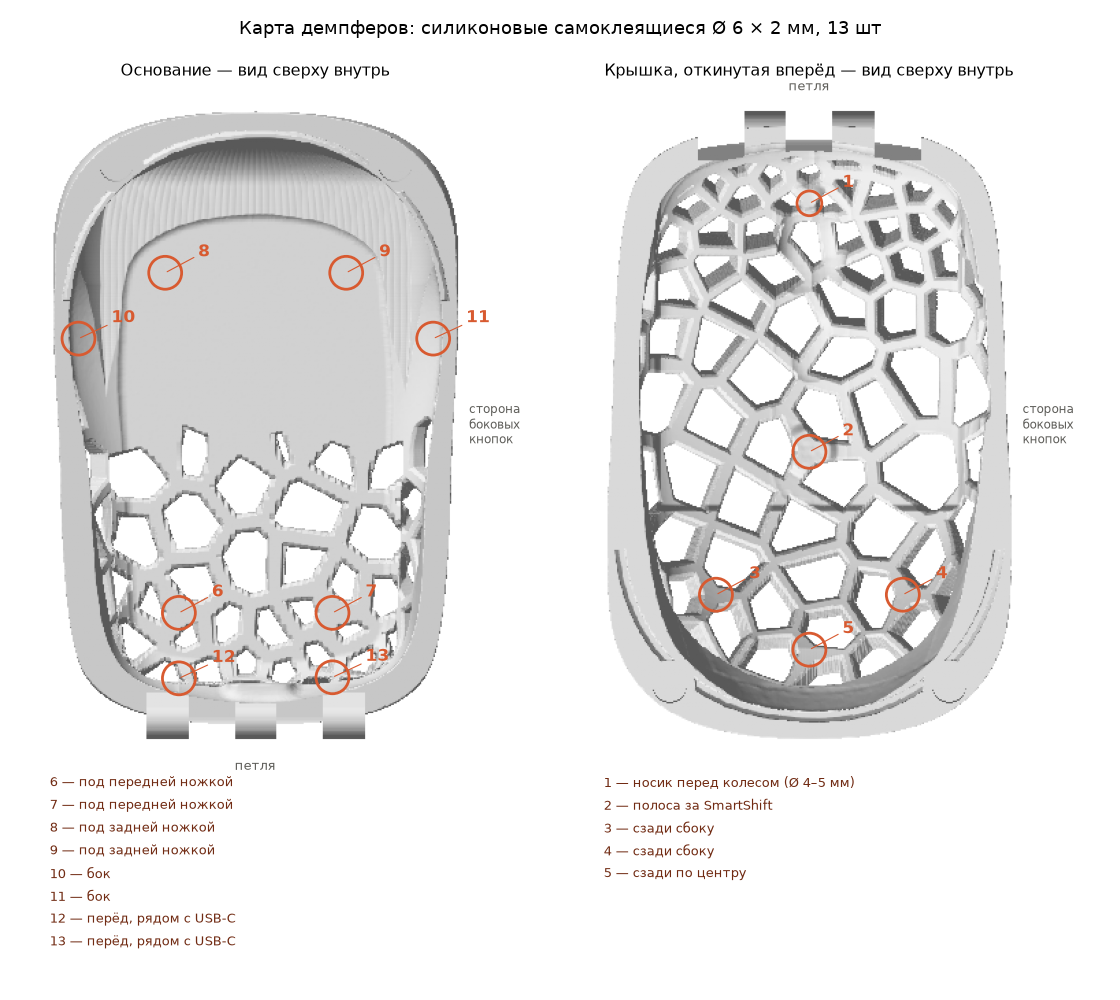
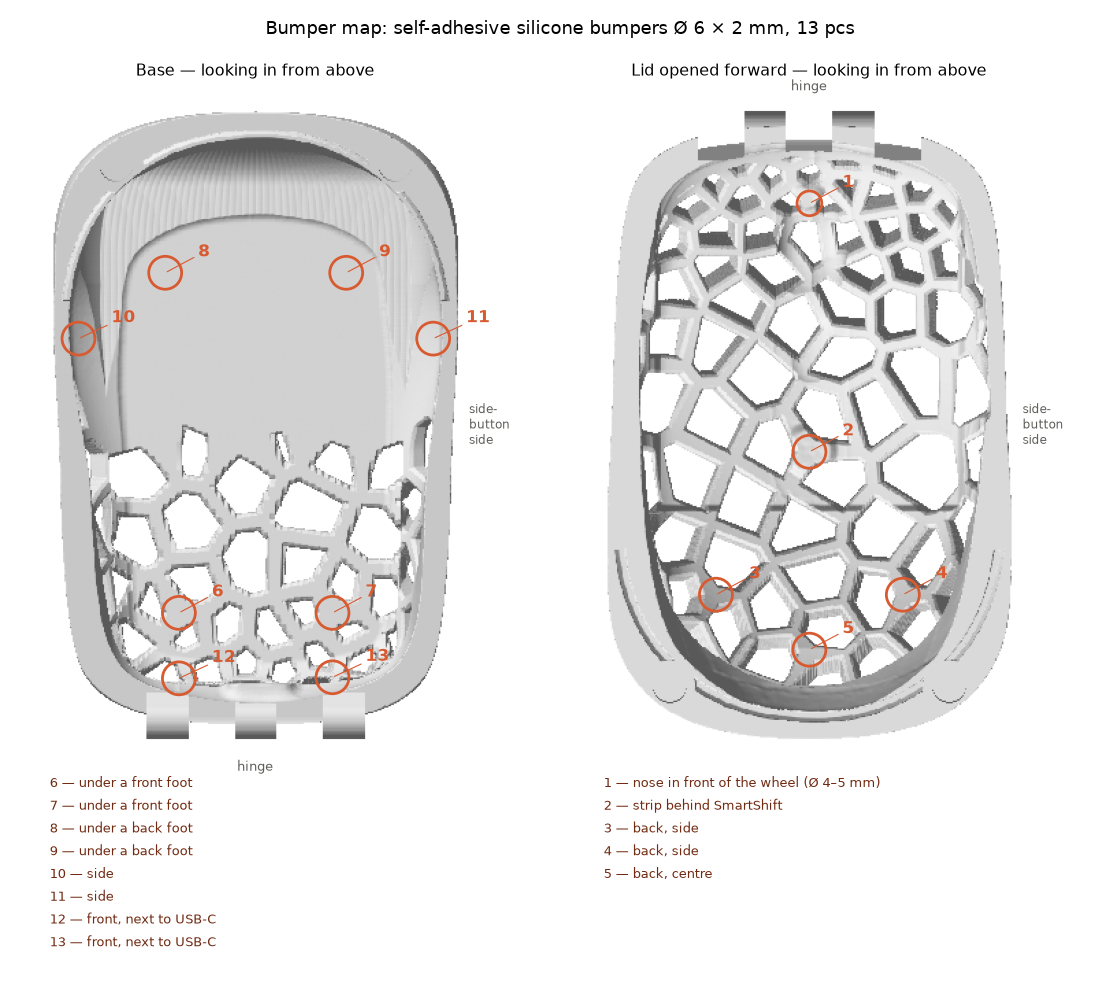
Docs in English and Russian
English stays the main language: README.md and PRINTING.md (now
translated), with README.ru.md and PRINTING.ru.md alongside and a language
switch at the top of each. The case views and the bumper map are rendered
in both languages; the order package for the print shop keeps the Russian
pictures and order text.

diff --git a/case/bumper_map.py b/case/bumper_map.py
@@ -1,7 +1,7 @@
 """Where to glue the bumpers: a shaded look into the base from above and into the
 lid from below (as you hold it opened), with every contact numbered.
 
-Run:  .venv/bin/python -m case.bumper_map [stage]
+Run:  .venv/bin/python -m case.bumper_map [stage]   (writes the English and the Russian map)
 """
 import sys
 
@@ -16,12 +16,29 @@ from . import fields as F  # noqa: E402
 from . import form  # noqa: E402
 from . import params as P  # noqa: E402
 
-LABELS = {
-    "nose": "носик перед колесом", "strip": "полоса за SmartShift", "back_l": "сзади сбоку",
-    "back_r": "сзади сбоку", "back_c": "сзади по центру", "foot_fl": "под передней ножкой",
-    "foot_fr": "под передней ножкой", "foot_bl": "под задней ножкой",
-    "foot_br": "под задней ножкой", "side_l": "бок", "side_r": "бок",
-    "front_l": "перёд, рядом с USB-C", "front_r": "перёд, рядом с USB-C",
+TEXT = {
+    "en": {
+        "labels": {
+            "nose": "nose in front of the wheel", "strip": "strip behind SmartShift", "back_l": "back, side",
+            "back_r": "back, side", "back_c": "back, centre", "foot_fl": "under a front foot",
+            "foot_fr": "under a front foot", "foot_bl": "under a back foot", "foot_br": "under a back foot",
+            "side_l": "side", "side_r": "side", "front_l": "front, next to USB-C", "front_r": "front, next to USB-C",
+        },
+        "nose_size": " (Ø 4–5 mm)", "base": "Base — looking in from above",
+        "lid": "Lid opened forward — looking in from above", "hinge": "hinge", "side": "side-\nbutton\nside",
+        "title": "Bumper map: self-adhesive silicone bumpers Ø 6 × 2 mm, 13 pcs",
+    },
+    "ru": {
+        "labels": {
+            "nose": "носик перед колесом", "strip": "полоса за SmartShift", "back_l": "сзади сбоку",
+            "back_r": "сзади сбоку", "back_c": "сзади по центру", "foot_fl": "под передней ножкой",
+            "foot_fr": "под передней ножкой", "foot_bl": "под задней ножкой", "foot_br": "под задней ножкой",
+            "side_l": "бок", "side_r": "бок", "front_l": "перёд, рядом с USB-C", "front_r": "перёд, рядом с USB-C",
+        },
+        "nose_size": " (Ø 4–5 мм)", "base": "Основание — вид сверху внутрь",
+        "lid": "Крышка, откинутая вперёд — вид сверху внутрь", "hinge": "петля", "side": "сторона\nбоковых\nкнопок",
+        "title": "Карта демпферов: силиконовые самоклеящиеся Ø 6 × 2 мм, 13 шт",
+    },
 }
 
 
@@ -40,12 +57,12 @@ def shaded(mesh, from_below, step=0.25):
     return img.reshape(X.shape), [xs[0], xs[-1], ys[0], ys[-1]]
 
 
-def draw(stage="print"):
+def draw(stage="print", lang="en", out=None):
     d = P.BUILD / stage
+    t = TEXT[lang]
     contacts = F.contact_points()
     fig, axs = plt.subplots(1, 2, figsize=(14, 12.5))
-    for ax, part, below, title in [(axs[0], "base", False, "Основание — вид сверху внутрь"),
-                                   (axs[1], "lid", True, "Крышка, откинутая вперёд — вид сверху внутрь")]:
+    for ax, part, below, title in [(axs[0], "base", False, t["base"]), (axs[1], "lid", True, t["lid"])]:
         m = trimesh.load(P.BUILD / "stage2" / f"{part}.stl") if not (d / f"{part}.stl").exists() \
             else trimesh.load(d / f"{part}.stl")
         img, ext = shaded(m, below)
@@ -62,23 +79,24 @@ def draw(stage="print"):
             ax.add_patch(plt.Circle((x, y), dia / 2, fill=False, color="#D85A30", lw=2.5))
             ax.annotate(str(i), (x, y), xytext=(x + 6, y + 3), color="#D85A30", fontsize=15,
                         fontweight="bold", arrowprops=dict(arrowstyle="-", color="#D85A30", lw=1))
-            ax.text(0.02, -0.04 - 0.035 * k, f"{i} — {LABELS[name]}" + (" (Ø 4–5 мм)" if name == "nose" else ""),
+            ax.text(0.02, -0.04 - 0.035 * k, f"{i} — {t['labels'][name]}" + (t["nose_size"] if name == "nose" else ""),
                     transform=ax.transAxes, fontsize=12, color="#712B13", va="top")
             k += 1
         hinge_y = 1.0 if below else 0.0
-        ax.text(0.5, hinge_y + (0.01 if below else -0.015), "петля", transform=ax.transAxes, ha="center",
+        ax.text(0.5, hinge_y + (0.01 if below else -0.015), t["hinge"], transform=ax.transAxes, ha="center",
                 va="bottom" if below else "top", fontsize=12, color="#5F5E5A")
-        ax.text(1.0, 0.5, "сторона\nбоковых\nкнопок", transform=ax.transAxes, ha="left", va="center",
+        ax.text(1.0, 0.5, t["side"], transform=ax.transAxes, ha="left", va="center",
                 fontsize=11, color="#5F5E5A")
         ax.set_title(title, fontsize=14, pad=22)
         ax.set_aspect("equal")
         ax.axis("off")
-    plt.suptitle("Карта демпферов: силиконовые самоклеящиеся Ø 6 × 2 мм, 13 шт", fontsize=16)
+    plt.suptitle(t["title"], fontsize=16)
     plt.subplots_adjust(left=0.03, right=0.92, top=0.9, bottom=0.25, wspace=0.25)
-    out = d / "bumper_map.png"
+    out = out or d / ("bumper_map.png" if lang == "en" else f"bumper_map.{lang}.png")
     plt.savefig(out, dpi=80)
     print(out)
 
 
 if __name__ == "__main__":
-    draw(*sys.argv[1:])
+    for lang in TEXT:
+        draw(*sys.argv[1:], lang=lang)

diff --git a/case/colors.py b/case/colors.py
@@ -106,7 +106,7 @@ if __name__ == "__main__":
     render_all()
 
 
-def scheme_views(base_color, lid_color, lid_alpha=1.0, tag="custom", stage="print", open_deg=105):
+def scheme_views(base_color, lid_color, lid_alpha=1.0, tag="custom", stage="print", open_deg=105, lang="en"):
     """Closed and open GLBs of one scheme, plus a sheet of views. A lid_alpha
     below 1 hints at translucent filament (the viewer blends, snapshots may not)."""
     OUT.mkdir(parents=True, exist_ok=True)
@@ -132,10 +132,12 @@ def scheme_views(base_color, lid_color, lid_alpha=1.0, tag="custom", stage="prin
         s.apply_transform(Z_UP_TO_Y_UP)
         out[state] = OUT / f"{tag}_{state}.glb"
         s.export(out[state])
-    shots = [("closed", "iso", "спереди"), ("closed", "150:12", "сзади"), ("closed", "top", "сверху"),
-             ("closed", "90:5", "сбоку"), ("open", "iso", "открыт"), ("open", "300:45", "открыт, сверху")]
+    shots = [("closed", "iso"), ("closed", "150:12"), ("closed", "top"),
+             ("closed", "90:5"), ("open", "iso"), ("open", "300:45")]
+    titles = {"en": ["front", "back", "top", "side", "open", "open, from above"],
+              "ru": ["спереди", "сзади", "сверху", "сбоку", "открыт", "открыт, сверху"]}[lang]
     fig, axs = plt.subplots(2, 3, figsize=(18, 10))
-    for ax, (state, cam, title) in zip(axs.ravel(), shots):
+    for ax, (state, cam), title in zip(axs.ravel(), shots, titles):
         png = OUT / f"{tag}_{state}_{cam.replace(':', '_')}.png"
         subprocess.run(["cadgen", "+0.8.4", "snapshot", str(out[state]), str(png), f"--camera={cam}"],
                        check=True, capture_output=True)
@@ -143,6 +145,6 @@ def scheme_views(base_color, lid_color, lid_alpha=1.0, tag="custom", stage="prin
         ax.set_title(title, fontsize=15)
         ax.axis("off")
     plt.tight_layout()
-    sheet = OUT / f"{tag}_views.png"
+    sheet = OUT / (f"{tag}_views.png" if lang == "en" else f"{tag}_views.{lang}.png")
     plt.savefig(sheet, dpi=55)
     return out, sheet

diff --git a/case/order.py b/case/order.py
@@ -76,8 +76,10 @@ def build(stage="print"):
                    check=True, capture_output=True)
     glb.unlink()
 
-    sheet = P.BUILD / "colors" / "D_frosted_views.png"  # made by colors.scheme_views for the chosen scheme
-    if sheet.exists():
+    # made by colors.scheme_views for the chosen scheme; the print shop reads Russian
+    sheet = next((f for f in (P.BUILD / "colors" / "D_frosted_views.ru.png", P.BUILD / "colors" / "D_frosted_views.png")
+                  if f.exists()), None)
+    if sheet:
         shutil.copy(sheet, out / "cveta.png")
 
     with zipfile.ZipFile(P.BUILD / "mx_case_order.zip", "w", zipfile.ZIP_DEFLATED) as z:

diff --git a/PRINTING.md b/PRINTING.md
@@ -1,61 +1,66 @@
-# Чехол MX Anywhere 3 — печать и сборка
+# MX Anywhere 3 case — printing and assembly
 
-## Файлы для печати
+**English** · [Русский](PRINTING.ru.md)
 
-Собираются командой `.venv/bin/python -m case.build print` в папку `build/print/`:
+## Print files
 
-| Файл | Что это |
+`.venv/bin/python -m case.build print` writes them to `build/print/`:
+
+| File | What it is |
 | --- | --- |
-| `mx_case_plate.3mf` | обе детали на одном столе, уже в положении для печати |
-| `mx_case_base.stl` | основание, в положении для печати |
-| `mx_case_lid.stl` | крышка, в положении для печати |
-| `bumper_map.png` | куда клеить демпферы |
+| `mx_case_plate.3mf` | both parts on one plate, already in print orientation |
+| `mx_case_base.stl` | the base, in print orientation |
+| `mx_case_lid.stl` | the lid, in print orientation |
 
-## Заказ
+The bumper map comes from `.venv/bin/python -m case.bumper_map`: `build/print/bumper_map.png` (Russian version: `bumper_map.ru.png`).
 
-`.venv/bin/python -m case.order` собирает `build/mx_case_order.zip` — его и отправлять:
+## Ordering a print
 
-| В архиве | Что это |
+`.venv/bin/python -m case.order` builds `build/mx_case_order.zip`, ready to send to a print shop:
+
+| In the zip | What it is |
 | --- | --- |
-| `mx_case_base_PETG_gray.stl` | основание — **PETG серый** |
-| `mx_case_lid_PETG_white-transparent.stl` | крышка — **PETG белый прозрачный** |
-| `zakaz.txt` | текст заказа: цвета, положение на столе, поддержки, настройки |
-| `na_stole.png`, `cveta.png` | как детали лежат на столе и как выглядит готовый чехол |
+| `mx_case_base_PETG_gray.stl` | the base — **grey PETG** |
+| `mx_case_lid_PETG_white-transparent.stl` | the lid — **translucent white PETG** |
+| `zakaz.txt` | the order text: colours, orientation on the bed, supports, settings (in Russian) |
+| `na_stole.png`, `cveta.png` | the parts as they lie on the bed, and the finished case |
 
-Цвета заданы в `case/params.py` (`PRINT_COLORS`). STL не хранит цвет, поэтому он в названии файла и в тексте заказа. Детали разных цветов печатаются отдельными заданиями.
+The colours are set in `case/params.py` (`PRINT_COLORS`). An STL has no colour, so it goes into the file name and the order text. Parts in different colours are printed as separate jobs.
 
-## Для 3D Pixel
+## Print settings
 
-- **Материал:** PETG.
-- **Принтер:** многоцветный 256 × 256 × 256 (Bambu); обе детали помещаются и на 220 × 220.
-- **Сопло / слой:** 0.4 мм / 0.2 мм.
-- **Стенки:** 3 периметра, заполнение 100 % — детали тонкие, это фактически сплошной пластик.
-- **Основание:** лежит дном на столе. Поддержки **не нужны**.
-- **Крышка:** лежит плоским краем (плоскостью разъёма) на столе, куполом вверх. Нужны **древовидные поддержки только от стола** (support on build plate only) — они растут внутри купола и держат рёбра сетки снизу. Снаружи крышки поддержек быть не должно.
-- **Отверстия петли** имеют каплевидный верх и печатаются без поддержек.
-- Ориентацию не менять: в файлах она уже правильная.
+- **Material:** PETG.
+- **Printer:** anything with a 220 × 220 mm bed or larger; both parts fit on one plate.
+- **Nozzle / layer:** 0.4 mm / 0.2 mm.
+- **Walls:** 3 perimeters, 100 % infill — the parts are thin, so they are practically solid anyway.
+- **Base:** flat bottom on the bed. **No supports.**
+- **Lid:** flat rim (the parting plane) on the bed, dome up. **Tree supports from the build plate only** — they grow inside the dome and hold the lattice ribs from below. There must be no supports on the outside of the lid.
+- **Hinge holes** have a teardrop top and print without supports.
+- Do not change the orientation: the files already have the right one.
 
-## Что купить
+## What to buy
 
-| Что | Сколько |
+| What | How many |
 | --- | --- |
-| Магниты неодимовые, диск 6 × 2 мм | 4 шт |
-| Пруток / винт Ø 3 мм, длина 40 мм (винт M3 × 40, стальной пруток или спица) | 1 шт |
-| Демпферы силиконовые самоклеящиеся Ø 6 × 2 мм | 12 шт |
-| Демпфер Ø 4–5 × 2 мм (или кусочек того же) на носик перед колесом | 1 шт |
-| Клей: цианоакрилат («супер-клей») или эпоксидка | для магнитов |
+| Neodymium disc magnets 6 × 2 mm | 4 |
+| Rod or screw Ø 3 mm, 40 mm long (M3 × 40 screw, steel rod or knitting needle) | 1 |
+| Self-adhesive silicone bumpers Ø 6 × 2 mm | 12 |
+| Bumper Ø 4–5 × 2 mm (or a piece of one) for the nose in front of the wheel | 1 |
+| Glue: cyanoacrylate (super glue) or epoxy | for the magnets |
 
-## Сборка
+## Assembly
 
-1. **Магниты.** В задних углах крышки и основания по гнезду Ø 6.2 мм. Сложите все 4 магнита в один столбик и пометьте маркером верхнюю сторону каждого. В основание вклейте их **помеченной стороной наружу** (к линии разъёма), в крышку — **помеченной стороной внутрь гнезда** (ко дну). Проверьте, что крышка притягивается, пока клей не схватился.
-2. **Петля.** Совместите проушины крышки и основания и вставьте пруток: в проушинах основания он сидит плотно (Ø 3.0), в проушинах крышки вращается свободно (Ø 3.25). Если сел слишком туго — пройдите отверстия крышки сверлом 3.2–3.3 мм.
-3. **Демпферы** — по карте `bumper_map.png`: 8 шт в основании, 5 шт в крышке. Каждый клеится на утолщённый узел сетки или на сплошную стенку точно под своим номером. Мышь касается чехла только через них; остальная поверхность — в 1.7 мм от мыши.
+1. **Magnets.** There is a Ø 6.2 mm pocket in each back corner of the lid and of the base. Stack all 4 magnets in one column and mark the top face of each. Glue them into the base **marked face out** (towards the parting line) and into the lid **marked face into the pocket** (towards its bottom). Check that the lid pulls shut before the glue sets.
+2. **Hinge.** Line up the knuckles of the lid and the base and push the rod through: it is a press fit in the base knuckles (Ø 3.0) and turns freely in the lid knuckles (Ø 3.25). If it is too tight, run a 3.2–3.3 mm drill through the lid holes.
+3. **Bumpers** — following the map below: 8 in the base, 5 in the lid. Each one goes on a thickened lattice node or on solid wall, right at its number. The mouse touches the case only through them; everything else is 1.7 mm away from the mouse.
 
-## Параметры, если что-то не подошло
+![Bumper map](docs/bumper_map.png)
 
-Всё в `case/params.py` и `case/lattice.py`, пересборка одной командой:
+## If something does not fit
 
-- другой пруток — `PIN_HOLE_LID`, `PIN_HOLE_BASE`;
-- другие демпферы (высота) — `GAP`, `GAP_PAD` (зазор = высота демпфера − 0.3 мм);
-- тугой или свободный бортик — `LIP_CLEAR`;
-- другие магниты — `MAG_D`, `MAG_DEPTH`.
+Everything is in `case/params.py` and `case/lattice.py`, rebuilt with one command:
+
+- a different rod — `PIN_HOLE_LID`, `PIN_HOLE_BASE`;
+- different bumpers (height) — `GAP`, `GAP_PAD` (gap = bumper height − 0.3 mm);
+- a lip that is too tight or too loose — `LIP_CLEAR`;
+- different magnets — `MAG_D`, `MAG_DEPTH`.

diff --git a/README.ru.md b/README.ru.md
@@ -1,0 +1,67 @@
+# Чехол MX Anywhere 3
+
+[English](README.md) · **Русский**
+
+Жёсткий чехол для мыши Logitech MX Anywhere 3, напечатанный на 3D-принтере. Его единственная задача: когда мышь брошена в рюкзак, ничто не нажимает её кнопки.
+
+![Чехол закрытый и открытый: крышка из белого прозрачного PETG, основание серое](docs/case_views.ru.png)
+
+- **Крышка и основание** печатаются отдельно. Спереди их соединяет печатная петля из 5 проушин на прутке 3 мм, сзади держат две пары магнитов 6 × 2 мм, а бортик вокруг задника не даёт половинкам сдвигаться.
+- **Сетка Вороного** прорезана сквозь стенку рёбрами-клиньями: снаружи ребро восьмигранное, к мыши сужается. Сплошная «пятка» сзади и снизу переходит в крупные ячейки, мелкими ячейки становятся только у петли.
+- **Мышь касается чехла всего в 13 точках** — через самоклеящиеся силиконовые демпферы высотой 2 мм, на утолщённых узлах сетки или на сплошной стенке. Всё остальное в 1.7 мм от мыши, над колесом, SmartShift и обеими основными клавишами — не меньше 3 мм, над боковыми кнопками — 2.5 мм.
+- **Около 72 г PETG**, габарит 75 × 115 × 44 мм.
+
+## Как это устроено
+
+Всё описано кодом в папке `case/`. Органичные части — поля расстояний (SDF) на сетке 0.2–0.3 мм, механические — точные сетки.
+
+1. **Внешняя форма** (`form.py`): три кривые Безье — контур сверху, профиль сбоку и нормированное сечение — сведены в одно гладкое тело.
+2. **Полость** (`fields.py`): скан мыши, раздутый на зазор, который зависит от зоны (кнопки, точки контакта, всё остальное), и протянутый по обоим движениям при открывании: подъём мыши из основания и поворот крышки вокруг оси петли. Поэтому при открывании ничего не цепляется.
+3. **Плоскость разъёма и бортик**: плоскость с наклоном около 6° через самые широкие места носа и задника мыши.
+4. **Сетка** (`lattice.py`): точки Вороного на внешней поверхности. Их плотность задаёт композиция (пятка, пояс вдоль линии разъёма, петля, магниты), а вокруг каждой точки контакта ставятся три точки, чтобы узел сетки пришёлся ровно над ней. Каждый воксель стенки проецируется на внешнюю поверхность; расстояние до ближайшего ребра Вороного в сравнении с профилем ребра по глубине решает, ребро здесь или отверстие.
+5. **Сетки** (`build.py`, `hinge.py`): marching cubes, затем булевы операции [manifold3d](https://github.com/elalish/manifold) для проушин, каплевидных отверстий под ось и гнёзд магнитов.
+6. **Проверки**: нет пересечений с мышью и между крышкой и основанием, крышка свободно открывается до 120°, толщина стенок, нависания.
+
+## Использование
+
+Нужны Python 3.11+ и [uv](https://github.com/astral-sh/uv):
+
+```bash
+uv venv .venv
+uv pip install --python .venv/bin/python -r requirements.txt
+```
+
+Скан мыши в репозиторий **не входит** (см. ниже). Положите герметичный STL MX Anywhere 3 в корень репозитория под именем `Logitech MX Anywhere 3.stl`, в такой системе координат: миллиметры, перёд (USB-C, колесо) — в сторону −Y, боковые кнопки — в сторону +X, ножки стоят на z = −0.57. Точки контакта в `case/params.py` расставлены именно для неё.
+
+```bash
+.venv/bin/python -m case.build stage1   # сплошная оболочка, без сетки
+.venv/bin/python -m case.build stage2   # с сеткой, шаг 0.3 мм
+.venv/bin/python -m case.build print    # для печати: шаг 0.2 мм, детали в печатном положении
+.venv/bin/python -m case.checks         # тонкие стенки и нависания в файлах для печати
+.venv/bin/python -m case.bumper_map     # куда клеить демпферы
+.venv/bin/python -m case.order          # архив для салона печати с выбранными цветами
+```
+
+Первый запуск занимает несколько минут (поля расстояний кешируются в `build/cache`), следующие — около минуты. Для картинок (`case.colors`, `case.order`) нужна утилита `cadgen` из [text-to-cad](https://github.com/earthtojake/text-to-cad); сама сборка без неё обходится.
+
+Все размеры (зазоры, петля, магниты, бортик, профиль ребра, размер ячеек) — в `case/params.py` и `case/lattice.py`. Утверждённый рисунок сетки зафиксирован в `case/approved_seeds.npy`; удалите файл, чтобы получить новый.
+
+## Печать
+
+![Обе детали так, как они лежат на столе](docs/print_plate.png)
+
+- **Основание**: дном на столе, без поддержек.
+- **Крышка**: краем на столе, куполом вверх; древовидные поддержки только от стола (растут внутри купола).
+- PETG, сопло 0.4 мм, слой 0.2 мм, 3 периметра, заполнение 100 %.
+
+Понадобятся: 4 магнита 6 × 2 мм, пруток 3 мм длиной 40 мм (подойдёт винт M3 × 40), 13 силиконовых демпферов 6 × 2 мм. Настройки печати, сборка и архив заказа для салона — в [PRINTING.ru.md](PRINTING.ru.md).
+
+![Куда клеить демпферы](docs/bumper_map.ru.png)
+
+## Скан мыши
+
+Чехол подогнан под 3D-скан мыши, найденный в публичном репозитории. Его лицензия неясна, поэтому здесь он не распространяется. Подойдёт любой точный скан MX Anywhere 3 в описанной выше системе координат.
+
+## Лицензия
+
+[CC BY-NC 4.0](LICENSE): печатать, пользоваться, делиться и переделывать можно для личных некоммерческих целей с указанием автора. Продавать чехол, файлы или отпечатки без разрешения нельзя.

diff --git a/PRINTING.ru.md b/PRINTING.ru.md
@@ -1,0 +1,66 @@
+# Чехол MX Anywhere 3 — печать и сборка
+
+[English](PRINTING.md) · **Русский**
+
+## Файлы для печати
+
+Собираются командой `.venv/bin/python -m case.build print` в папку `build/print/`:
+
+| Файл | Что это |
+| --- | --- |
+| `mx_case_plate.3mf` | обе детали на одном столе, уже в положении для печати |
+| `mx_case_base.stl` | основание, в положении для печати |
+| `mx_case_lid.stl` | крышка, в положении для печати |
+
+Карта демпферов — `.venv/bin/python -m case.bumper_map`, файл `build/print/bumper_map.ru.png` (английская версия — `bumper_map.png`).
+
+## Заказ
+
+`.venv/bin/python -m case.order` собирает `build/mx_case_order.zip` — его и отправлять:
+
+| В архиве | Что это |
+| --- | --- |
+| `mx_case_base_PETG_gray.stl` | основание — **PETG серый** |
+| `mx_case_lid_PETG_white-transparent.stl` | крышка — **PETG белый прозрачный** |
+| `zakaz.txt` | текст заказа: цвета, положение на столе, поддержки, настройки |
+| `na_stole.png`, `cveta.png` | как детали лежат на столе и как выглядит готовый чехол |
+
+Цвета заданы в `case/params.py` (`PRINT_COLORS`). STL не хранит цвет, поэтому он в названии файла и в тексте заказа. Детали разных цветов печатаются отдельными заданиями.
+
+## Для 3D Pixel
+
+- **Материал:** PETG.
+- **Принтер:** многоцветный 256 × 256 × 256 (Bambu); обе детали помещаются и на 220 × 220.
+- **Сопло / слой:** 0.4 мм / 0.2 мм.
+- **Стенки:** 3 периметра, заполнение 100 % — детали тонкие, это фактически сплошной пластик.
+- **Основание:** лежит дном на столе. Поддержки **не нужны**.
+- **Крышка:** лежит плоским краем (плоскостью разъёма) на столе, куполом вверх. Нужны **древовидные поддержки только от стола** (support on build plate only) — они растут внутри купола и держат рёбра сетки снизу. Снаружи крышки поддержек быть не должно.
+- **Отверстия петли** имеют каплевидный верх и печатаются без поддержек.
+- Ориентацию не менять: в файлах она уже правильная.
+
+## Что купить
+
+| Что | Сколько |
+| --- | --- |
+| Магниты неодимовые, диск 6 × 2 мм | 4 шт |
+| Пруток / винт Ø 3 мм, длина 40 мм (винт M3 × 40, стальной пруток или спица) | 1 шт |
+| Демпферы силиконовые самоклеящиеся Ø 6 × 2 мм | 12 шт |
+| Демпфер Ø 4–5 × 2 мм (или кусочек того же) на носик перед колесом | 1 шт |
+| Клей: цианоакрилат («супер-клей») или эпоксидка | для магнитов |
+
+## Сборка
+
+1. **Магниты.** В задних углах крышки и основания по гнезду Ø 6.2 мм. Сложите все 4 магнита в один столбик и пометьте маркером верхнюю сторону каждого. В основание вклейте их **помеченной стороной наружу** (к линии разъёма), в крышку — **помеченной стороной внутрь гнезда** (ко дну). Проверьте, что крышка притягивается, пока клей не схватился.
+2. **Петля.** Совместите проушины крышки и основания и вставьте пруток: в проушинах основания он сидит плотно (Ø 3.0), в проушинах крышки вращается свободно (Ø 3.25). Если сел слишком туго — пройдите отверстия крышки сверлом 3.2–3.3 мм.
+3. **Демпферы** — по карте ниже: 8 шт в основании, 5 шт в крышке. Каждый клеится на утолщённый узел сетки или на сплошную стенку точно под своим номером. Мышь касается чехла только через них; остальная поверхность — в 1.7 мм от мыши.
+
+![Карта демпферов](docs/bumper_map.ru.png)
+
+## Параметры, если что-то не подошло
+
+Всё в `case/params.py` и `case/lattice.py`, пересборка одной командой:
+
+- другой пруток — `PIN_HOLE_LID`, `PIN_HOLE_BASE`;
+- другие демпферы (высота) — `GAP`, `GAP_PAD` (зазор = высота демпфера − 0.3 мм);
+- тугой или свободный бортик — `LIP_CLEAR`;
+- другие магниты — `MAG_D`, `MAG_DEPTH`.

diff --git a/README.md b/README.md
@@ -1,5 +1,7 @@
 # MX Anywhere 3 case
 
+**English** · [Русский](README.ru.md)
+
 A 3D-printable hard carry case for the Logitech MX Anywhere 3 mouse. Its one job: when the mouse is thrown into a backpack, nothing presses its buttons.
 
 ![The case: closed and open, lid in translucent white PETG, base in grey](docs/case_views.png)
@@ -52,7 +54,7 @@ All dimensions (gaps, hinge, magnets, lip, rib profile, cell sizes) live in `cas
 - **Lid**: rim on the bed, dome up; tree supports from the build plate only (they grow inside the dome).
 - PETG, 0.4 mm nozzle, 0.2 mm layers, 3 walls, 100 % infill.
 
-Parts you need: 4 magnets 6 × 2 mm, a 3 mm rod 40 mm long (an M3 × 40 screw works), 13 silicone bumpers 6 × 2 mm. Assembly and the order text for the print shop are in [PRINTING.md](PRINTING.md) (in Russian).
+Parts you need: 4 magnets 6 × 2 mm, a 3 mm rod 40 mm long (an M3 × 40 screw works), 13 silicone bumpers 6 × 2 mm. Print settings, assembly and the order package for a print shop are in [PRINTING.md](PRINTING.md).
 
 ![Where the bumpers go](docs/bumper_map.png)
 
